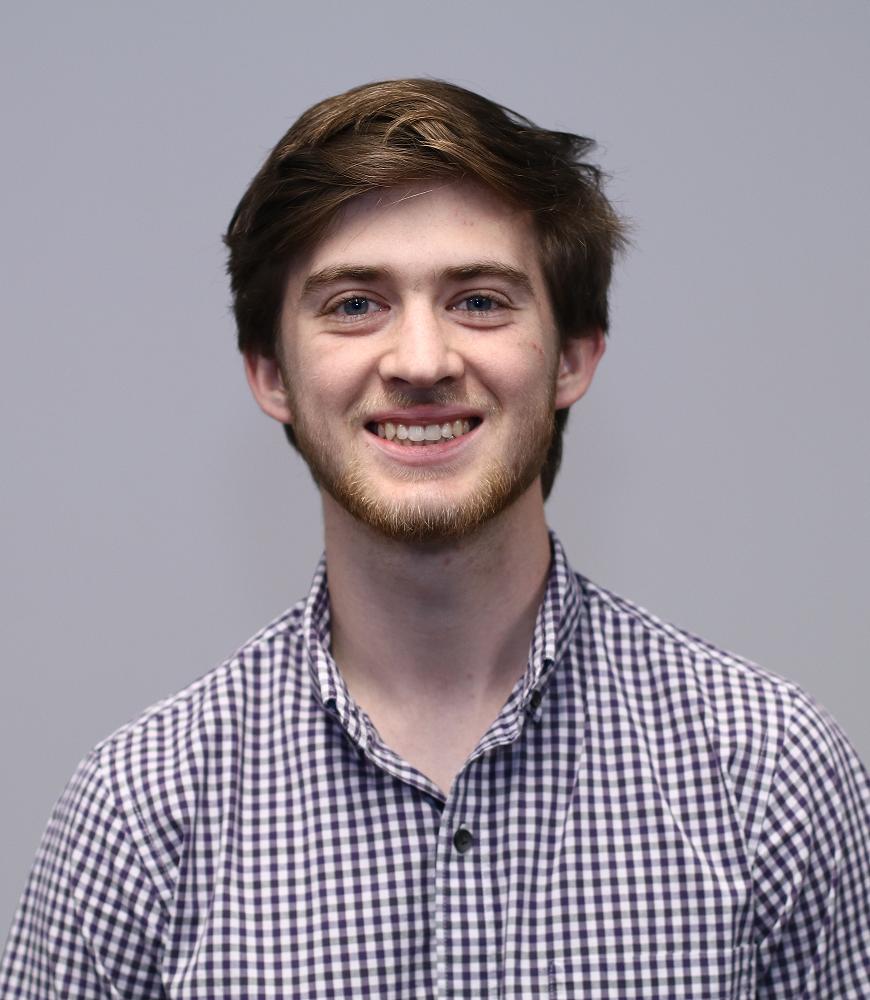
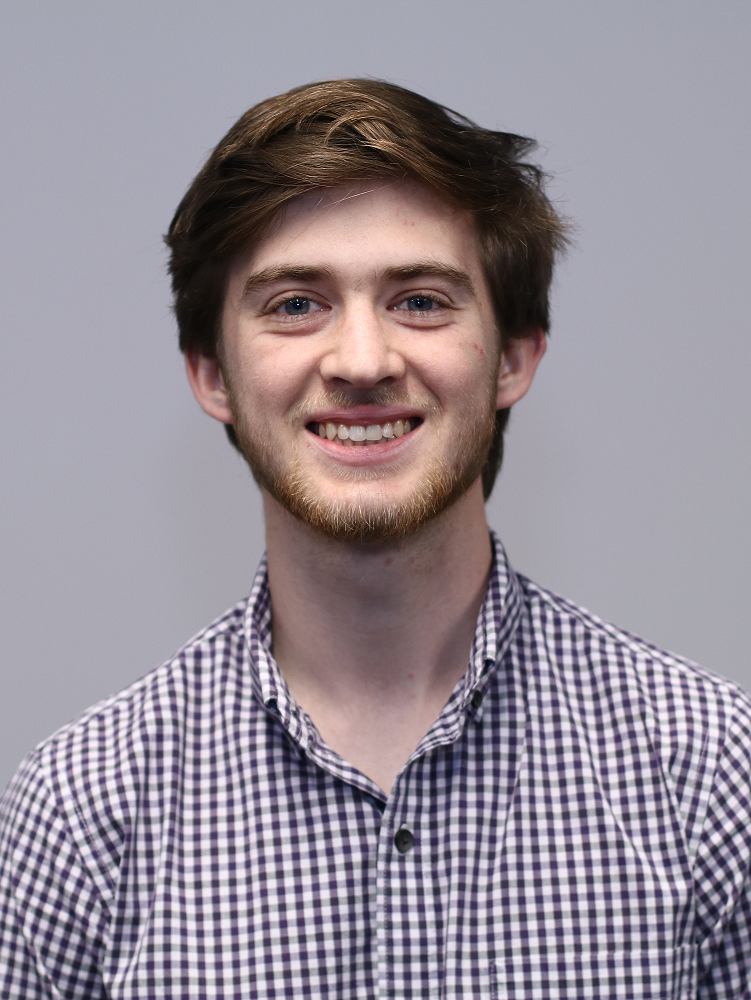
cropped chair images, edited the about statement, and added a hover style to the nav links

diff --git a/pages/index.jsx b/pages/index.jsx
@@ -97,7 +97,7 @@ function Home() {
           <Container>
             <h2>About</h2>
             <hr />
-            <p>Most of the computer-related clubs at the University of Florida were polarized to represent either electrical engineering or computer science . Students in computer engineering and other computer-related fields wanted a club that represented the union of electrical engineering and computer science. In the fall semester of 2014, their ideas would become reality through the official foundation of the University of Florida Association of Computer Engineers.</p>
+            <p>Founded in 2014, the Association of Computer Engineers serves as a community dedicated to representing the union of computer science and electrical engineering. We provide an opportunity for students at the University of Florida to develop their technical skills, learn from upperclassmen, and develop as professionals. Come out to one of our events and meet an amazing group of students to help you through your academic journey.</p>
           </Container>
         </Jumbotron>
       </ScrollableAnchor>
@@ -128,8 +128,8 @@ function Home() {
             <hr />
             <Row>
               <SocialButton link="https://uf-ace.slack.com/" icon={faSlack} title="Slack" />
-              <SocialButton link="https://www.facebook.com/groups/gatorace/?ref=bookmarks" icon={faFacebook} title="Facebook" />
-              <SocialButton link="https://twitter.com/ace_uf?lang=en" icon={faTwitter} title="Twitter" />
+              <SocialButton link="https://www.facebook.com/groups/gatorace/" icon={faFacebook} title="Facebook" />
+              <SocialButton link="https://twitter.com/ace_uf/" icon={faTwitter} title="Twitter" />
               <SocialButton link="https://www.instagram.com/ace_uf" icon={faInstagram} title="Instagram" />
             </Row>
           </Container>

diff --git a/components/config/event.js b/components/config/event.js
@@ -3,7 +3,7 @@ const EVENT_DATA = [
   {
     "summary": "GBM 1",
     "description": "Our first General Body Meeting of the Spring Semester. Come out for free pizza and to learn about upcoming ACE events!",
-    "location": "TBA",
+    "location": "MCCA G186",
     "datetime": "1/15 6:30PM"
   },
   {

diff --git a/styles.scss b/styles.scss
@@ -83,7 +83,11 @@ body {
   font-size: 1.2rem;
 
   &.active {
-    color: #e9ecef;;
+    color: #e9ecef;
+  }
+
+  &:hover {
+    color: #e9ecef;
   }
 }
 
